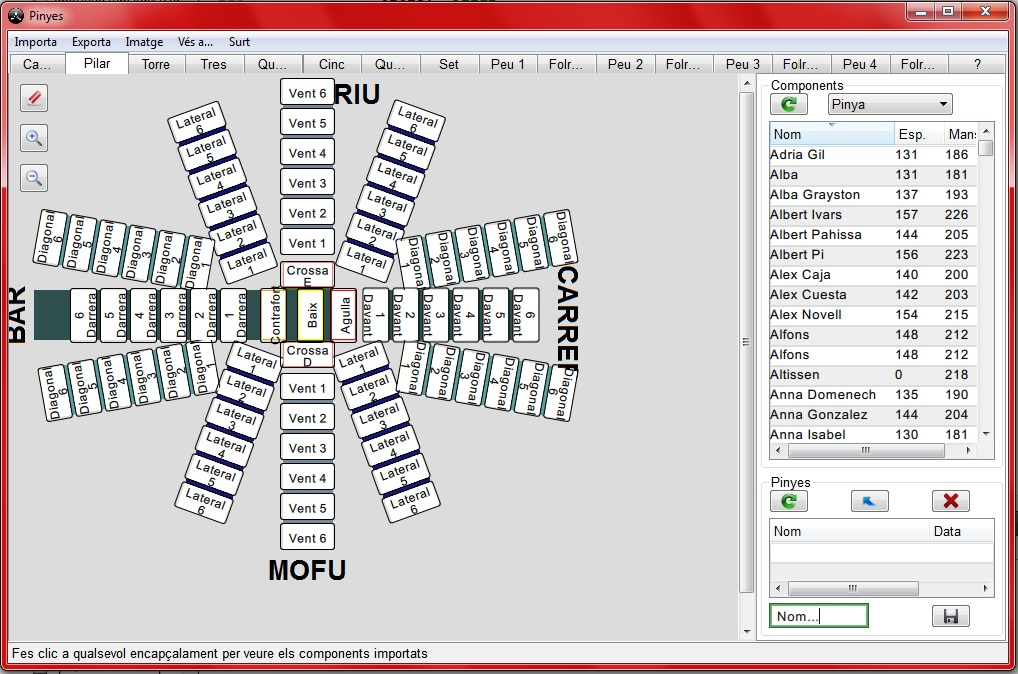
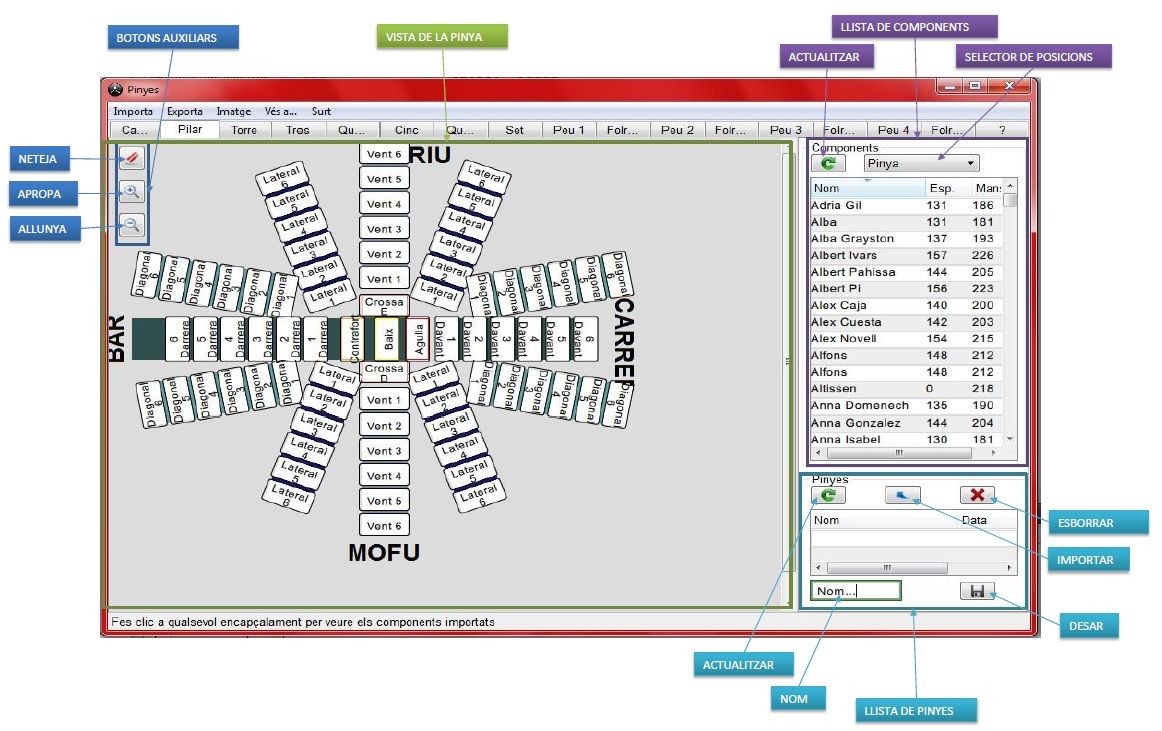
Finalització de la primera versió de l'ajuda.
Completada l'ajuda amb l'entrada de la vista de les pinyes

diff --git a/index.html b/index.html
@@ -56,7 +56,13 @@
 		<li><a href="#entrada_components">Entrada de components</a></li>
 	</ul>
     <h3><a href="#pesta_pinyes"></a><a href="#pespinyes">Pestanyes de pinyes</a></h3>
-	<br>
+	<ul>
+		<li><a href="#vista_general_pinyes">Vista general</a></li>
+		<li><a href="#llista_components">Llista de components</a></li>
+		<li><a href="#llista_pinyes">Llista de pinyes desades</a></li>
+		<li><a href="#botons_auxiliars">Botons auxiliars</a></li>
+		<li><a href="#funcionament">Funcionament</a><a href="#llista_pinyes"><br></a></li>
+	</ul>
     <h4 style="left: 0px; top: 0px" id="barra">Barra de menús</h4>
     <a href="#exp_pinya"> </a>
     <h4 id="imp_comp">Importar components des d'arxiu</h4>
@@ -227,8 +233,57 @@
 	<p>És possible que després de la inserció del component, s'hagi de fer clic 
 	a algun encapçalamen per a que aparegui reflexat a la taula.</p>
     <h3 id="pesta_pinyes">pESTANYES DE LES PINYES</h3>
-    <p>Vista general:</p>
+    <p id="vista_general_pinyes">Vista general:</p>
 	<p>
 	<img alt="Vista de la pestanya de pinyes" height="492" src="imatges/pest_pinyes.jpg" width="738"></p>
+	<h4 id="llista_components">
+	Llista de components</h4>
+    <p>La part de la llista de components és compon de la llista de components 
+	pròpiament dita, el botó per actualitar o refrescar, i el selector de 
+	posició.</p>
+	<p>A la llista de components hi surten els castellers que estan marcats 
+	com a presents a la taula de castellers. Els encapçalaments són interactius, 
+	la llista es pot ordenar `pel nom, per l'alçada de mans i per l'alçada 
+	d'espatlla.</p>
+	<p>El botó d'actualitzar serveix per a actualitzar la llista amb els 
+	components inclosos nous, els que estreuen de les pinyes i al principi 
+	d'obrir per primera vegada la pestanya de la pinya si encara no estan 
+	mostrats els castellers.</p>
+	<p>El selector de posicions serveix per a seleccionar el tipus de castellers 
+	que vols veure.</p>
+	<h4 id="llista_pinyes">
+	Llista de pinyes desades</h4>
+
+	<p>La part de la llista de pinyes és compon de la llista de pinyes 
+	pròpiament dita, el botó per actualitar o refrescar,el botó per esborrar la 
+	pinya seleccionada, el camp d'entrada del nom per posar-li a la pinya 
+	actual, el botó per a desar-la una vegada introduit el nom i el botó per a 
+	importar-la.</p>
+	<h4 id="botons_auxiliars">
+	Botons auxiliars</h4>
+
+    <p>Els botons auxiliars són els de netejar la pinya i deixar-la en blanc. 
+	Alerta!: No es pot desfer aquesta acció.</p>
+	<p>Els botons d'apropar i allunyar fan més gran o més petita la pinya. En 
+	entorns tàctils, es pt fer aquesta acció amb l'opció classica dels dos dits.</p>
+	<h4 id="funcionament">
+	Funcionament</h4>
+    <p>El funcionament és ben senzill:<br>
+    Es fa el tractament dels castellers presents o no
+	Es navega a la pinya la qual es vol omplir.<br>
+	Es neteja i es deixa en blanc.<br>
+	S'actualitza la llista de castellers si és necessari<br>
+	Es selecciona un casteller de la llista fent-hi clic a sobre<br>
+	Es posa a la posició desitjada fent-hi clic al quadre de la posició<br>
+	Amb doble-clic al quadre de la posició, la posició torna a quedar en blanc i el casteller torna a la llista<br>
+	Quan es té omplerta la pinya, es pot desar per a futur ús.<br>
+	
+	
+	
+    <p>&nbsp;</p>
+	<h2>Espero que us agradi!</h2>
+	
+	
+	
   </body>
 </html>
